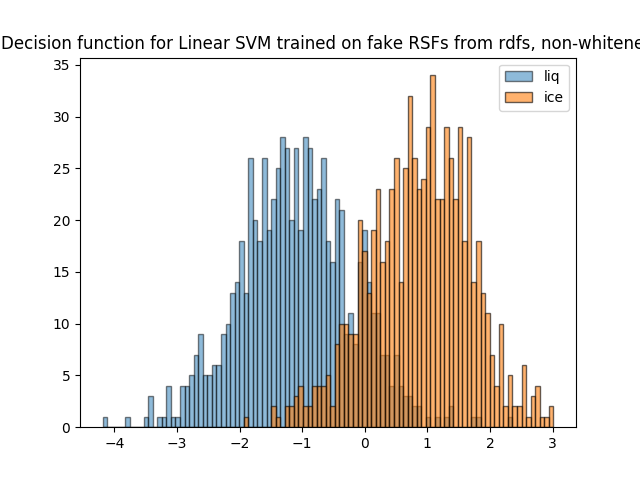
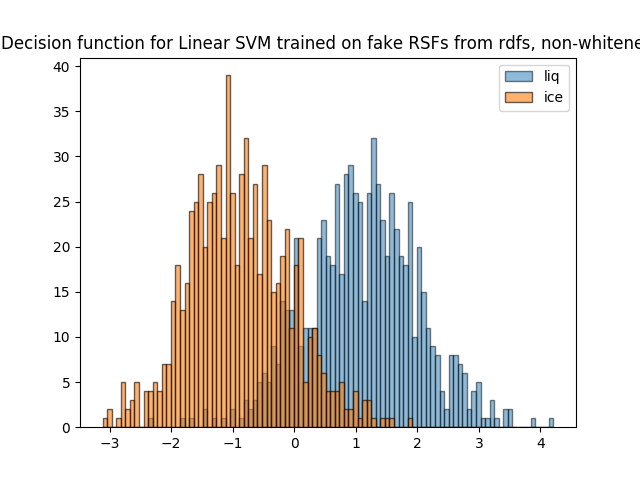
corrected plots related to pseudo rsfs from rdfs

diff --git a/rsf_svm.py b/rsf_svm.py
@@ -116,7 +116,7 @@ ice_pseudo = rsf_load_data.pseudo_rsfs_from_rdf(ice_rdf_fname, ice_cart_fname, .
 #liq_pseudo["y"] = 1
 #ice_pseudo["y"] = 0
 # form one data set with both labels
-pseudo_X = pd.concat([liq_pseudo, ice_pseudo], ignore_index=True)
+pseudo_X = pd.concat([ice_pseudo, liq_pseudo], ignore_index=True)
 plot_SVM_confidence(pseudo_X, y_train, 
                     sep_val_confidence=True,
                     #X_val=pseudo_scaler.transform(X_val), y_val=y_val, 
